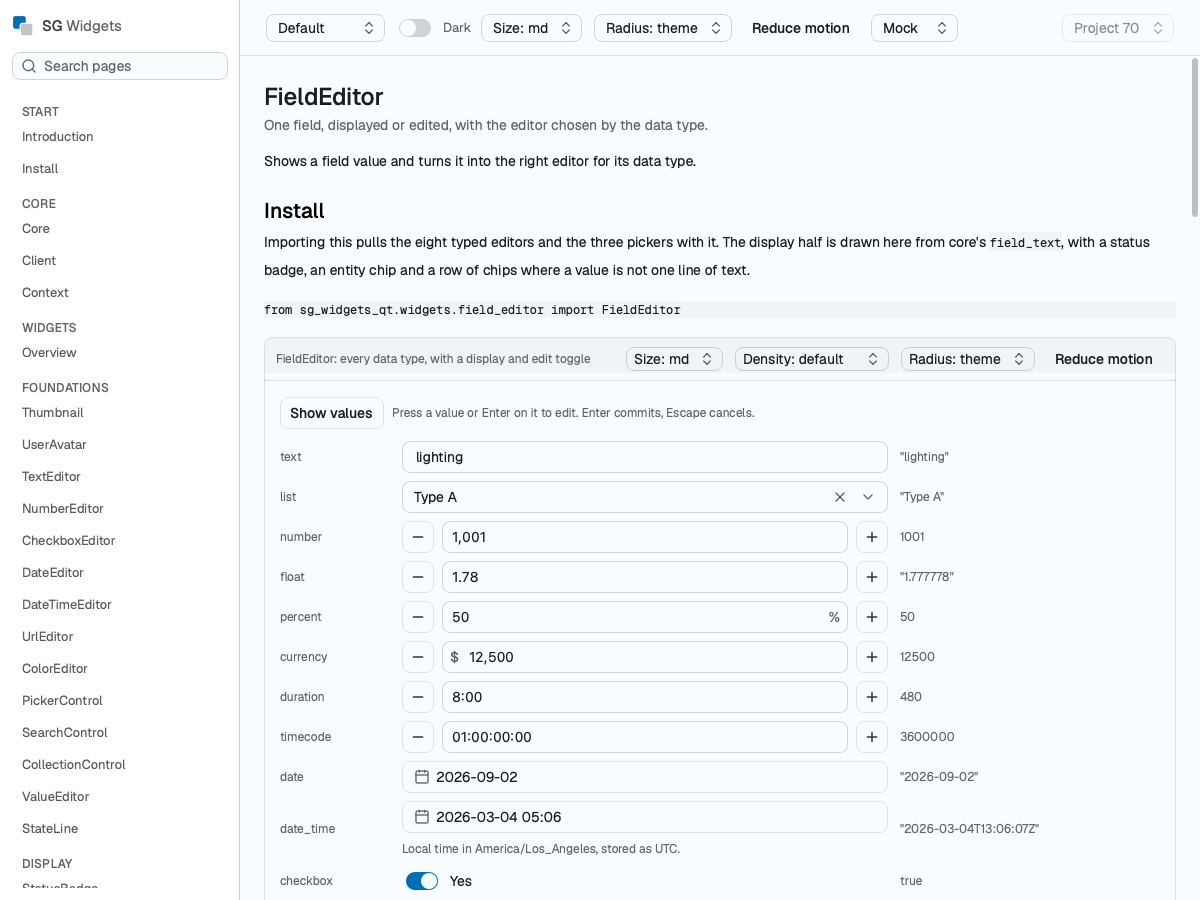
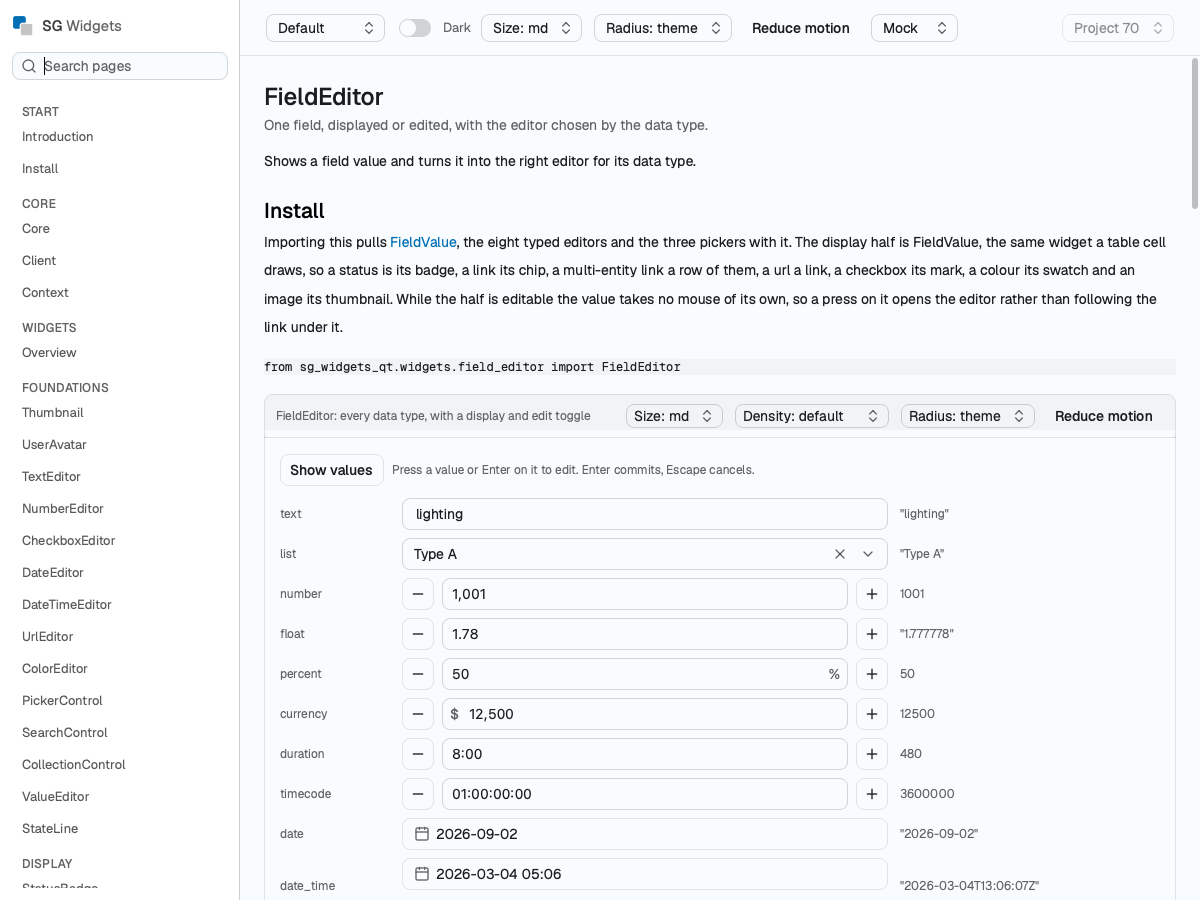
The filter editor, the filter dialog, the filter bar and the sort picker

diff --git a/tests/qt/test_field_value.py b/tests/qt/test_field_value.py
@@ -11,7 +11,7 @@ from sg_widgets_core.render import FieldTextOptions
 from sg_widgets_core.schema import FieldSchema
 from sg_widgets_core.status import ImageMapIcon, StatusRecord
 from sg_widgets_qt.images import ImageLoader
-from sg_widgets_qt.primitives.base import CHIP_HEIGHT
+from sg_widgets_qt.primitives.base import CHIP_HEIGHT, text_width
 from sg_widgets_qt.theme import apply_theme, theme_for
 from sg_widgets_qt.widgets.entity_chip import EntityChip
 from sg_widgets_qt.widgets.field_value import (
@@ -404,6 +404,43 @@ def test_the_site_preferences_reach_the_delegate_face(qtbot):
     assert plan_field_value(480, "duration", opts).text == "1d"
     assert plan_field_value("1.777778", "float", opts).text == "1.78"
     assert plan_field_value(12500, "currency", opts).text == "€12,500.00"
+
+
+# --- what the upstream markup decided per type -------------------------------------------------
+
+
+def test_a_checkbox_is_the_switch_the_web_widget_draws(root):
+    """`field-value.tsx` renders `<Switch size="sm" checked disabled aria-readonly />`.
+
+    A disabled switch with the dimming turned off: the two states read at full contrast and
+    nothing about it invites a press. A tick and a cross would be a different reading of the
+    same field, so the port draws the primitive the web widget names.
+    """
+    from sg_widgets_qt.primitives.checkbox import Switch
+
+    on = place(root, FieldValue(value=True, data_type="checkbox"))
+    off = place(root, FieldValue(value=False, data_type="checkbox"))
+    assert isinstance(on.child, Switch)
+    assert on.child.checked is True
+    assert off.child.checked is False
+    # Inert, out of the tab order, and never dimmed: `data-disabled:opacity-100` upstream.
+    assert on.child.focusPolicy() == QtCore.Qt.FocusPolicy.NoFocus
+    assert on.child.testAttribute(QtCore.Qt.WidgetAttribute.WA_TransparentForMouseEvents)
+    assert on.child.isEnabled() is True
+    assert on.plan.text == "Yes"
+    assert off.plan.text == "No"
+
+
+def test_a_url_is_an_underline_and_nothing_else(root):
+    """The web widget's anchor carries `underline` and no mark of its own, so neither does this.
+
+    Where a link goes is the link's business; a glyph beside it is a second thing to read.
+    """
+    value = place(root, FieldValue(value=UPLOADED, data_type="url"))
+    plain = field_value_size_hint(UPLOADED, "url", options())
+    metrics = QtGui.QFontMetrics(theme_for("default").font(14))
+    # The value asks for its text and not a pixel more, so nothing is drawn beside it.
+    assert plain.width() == text_width(metrics, value.plan.text)
 
 
 # --- the two faces, pixel for pixel ------------------------------------------------------------

diff --git a/src/sg_widgets_qt/widgets/field_value.py b/src/sg_widgets_qt/widgets/field_value.py
@@ -656,13 +656,13 @@ def _paint_checkbox(
     track.moveCenter(box.center())
     radius = track.height() / 2.0
     off = with_alpha(theme.input, 0.8) if theme.dark else theme.color("input")
-    fill_round_rect(painter, track, radius, theme.primary if plan.checked else off)
+    fill_round_rect(painter, track, radius, theme.color("primary") if plan.checked else off)
 
     travel = track.width() - SWITCH_THUMB - SWITCH_INSET * 2
     x = track.x() + SWITCH_INSET + (travel if plan.checked else 0)
     thumb = QtCore.QRectF(x, track.y() + SWITCH_INSET, SWITCH_THUMB, SWITCH_THUMB)
     if theme.dark:
-        ink = theme.primary_foreground if plan.checked else theme.foreground
+        ink = theme.color("primary_foreground" if plan.checked else "foreground")
     else:
         ink = theme.color("background")
     painter.setPen(QtCore.Qt.PenStyle.NoPen)
